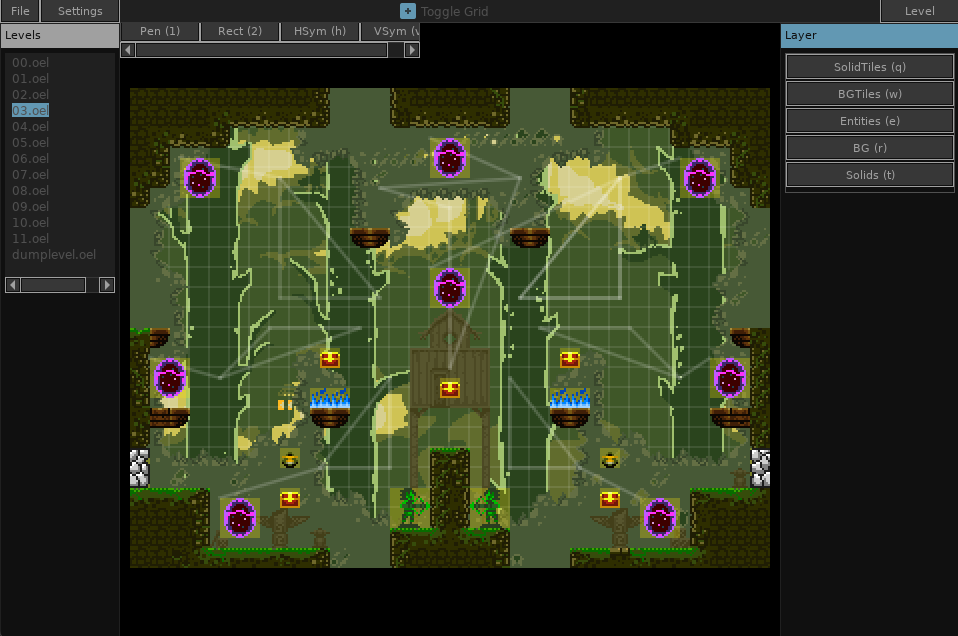
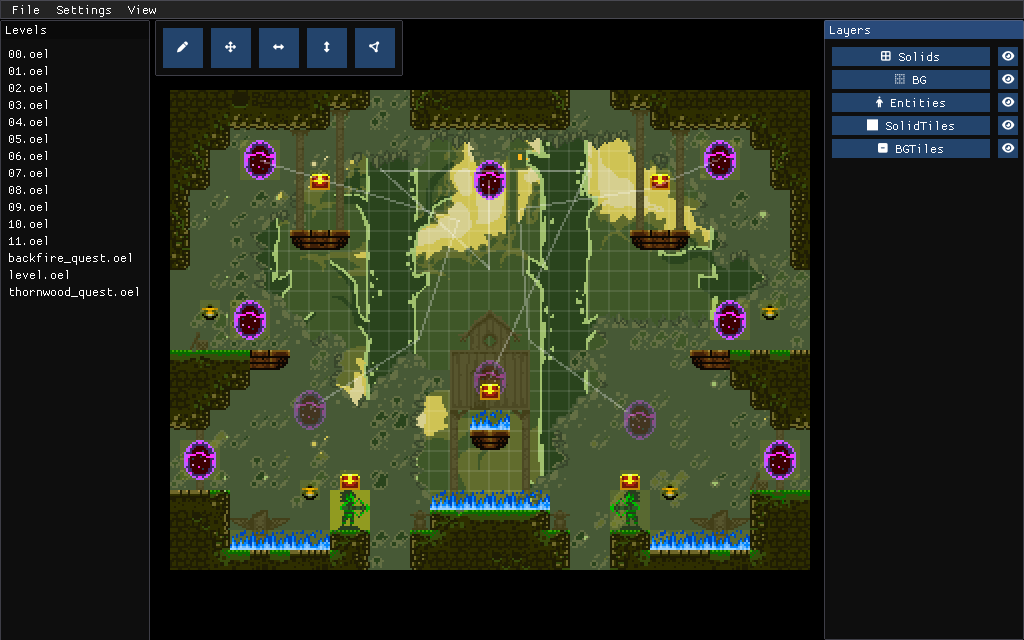
Put DrawGrid at the back

diff --git a/src/EditorScene.cs b/src/EditorScene.cs
@@ -1019,6 +1019,7 @@ public class EditorScene : Scene
 
             levelBatch.Begin(Resource.TowerFallTexture, DrawSampler.PointClamp);
 
+            DrawGrid();
             if (currentLevel != null) 
             {
                 if (visibility[1])
@@ -1049,7 +1050,6 @@ public class EditorScene : Scene
                     }
                 }
             }
-            DrawGrid();
             tileRect.Draw(levelBatch);
             PhantomActor.Draw(levelBatch);
             levelBatch.End();
@@ -1077,12 +1077,12 @@ public class EditorScene : Scene
     {
         for (int i = 0; i < 320 / 10; i++) 
         {
-            DrawUtils.Line(levelBatch, new Vector2(i * 10, 0), new Vector2(i * 10, 240), Color.White * 0.2f);
+            DrawUtils.Line(levelBatch, new Vector2(i * 10, 0), new Vector2(i * 10, 240), Color.White * 0.1f);
         }
 
         for (int i = 0; i < 240 / 10; i++) 
         {
-            DrawUtils.Line(levelBatch, new Vector2(0, i * 10), new Vector2(320, i * 10), Color.White * 0.2f);
+            DrawUtils.Line(levelBatch, new Vector2(0, i * 10), new Vector2(320, i * 10), Color.White * 0.1f);
         }
     }
 

diff --git a/README.md b/README.md
@@ -8,19 +8,11 @@ single person.
 ![preview](./images/latestpreview.png)
 
 ## Contributing
-If you want to contribute in this project, make sure you have TowerFall, as the editor needs
-to lookup on its content. And an nfd.dll which you can build from the [repository](https://github.com/Vexatos/nativefiledialog/tree/master/lua) itself.
+If you want to contribute in this project, make sure you have TowerFall and bring your own assets for now.
+Clone [Riateu](https://github.com/Terria-K/Riateu) project and put it next to the project folder, you also need some of its
+dependencies and build its native library.
 
-## C# Dependencies:
-+ [Riateu](https://github.com/Terria-K/Riateu) - A primary engine for this app.
-+ [TeuJson](https://github.com/Terria-K/TeuJson) - A json de/serializer.
 
 ## Dependencies:
 + [SDL3](https://www.libsdl.org) - Rendering backend, File dialog handling, etc.
-
-+ [LovesFrames](https://github.com/linux-man/LoveFrames) - Modified the treenode's position
-+ [xml2lua](https://github.com/manoelcampos/Xml2Lua)
-+ [luafilesystem-ffi](https://github.com/sonoro1234/luafilesystem)
-+ [lua-tinyxmlwriter](https://github.com/augmentedlogic/lua-tinyxmlwriter) - Modified to support writing values
-+ [nfd with lua](https://github.com/Vexatos/nativefiledialog/tree/master/lua)
-+ [json.lua](https://github.com/rxi/json.lua)
++ [Riateu](https://github.com/Terria-K/Riateu) - A primary engine for this app.
